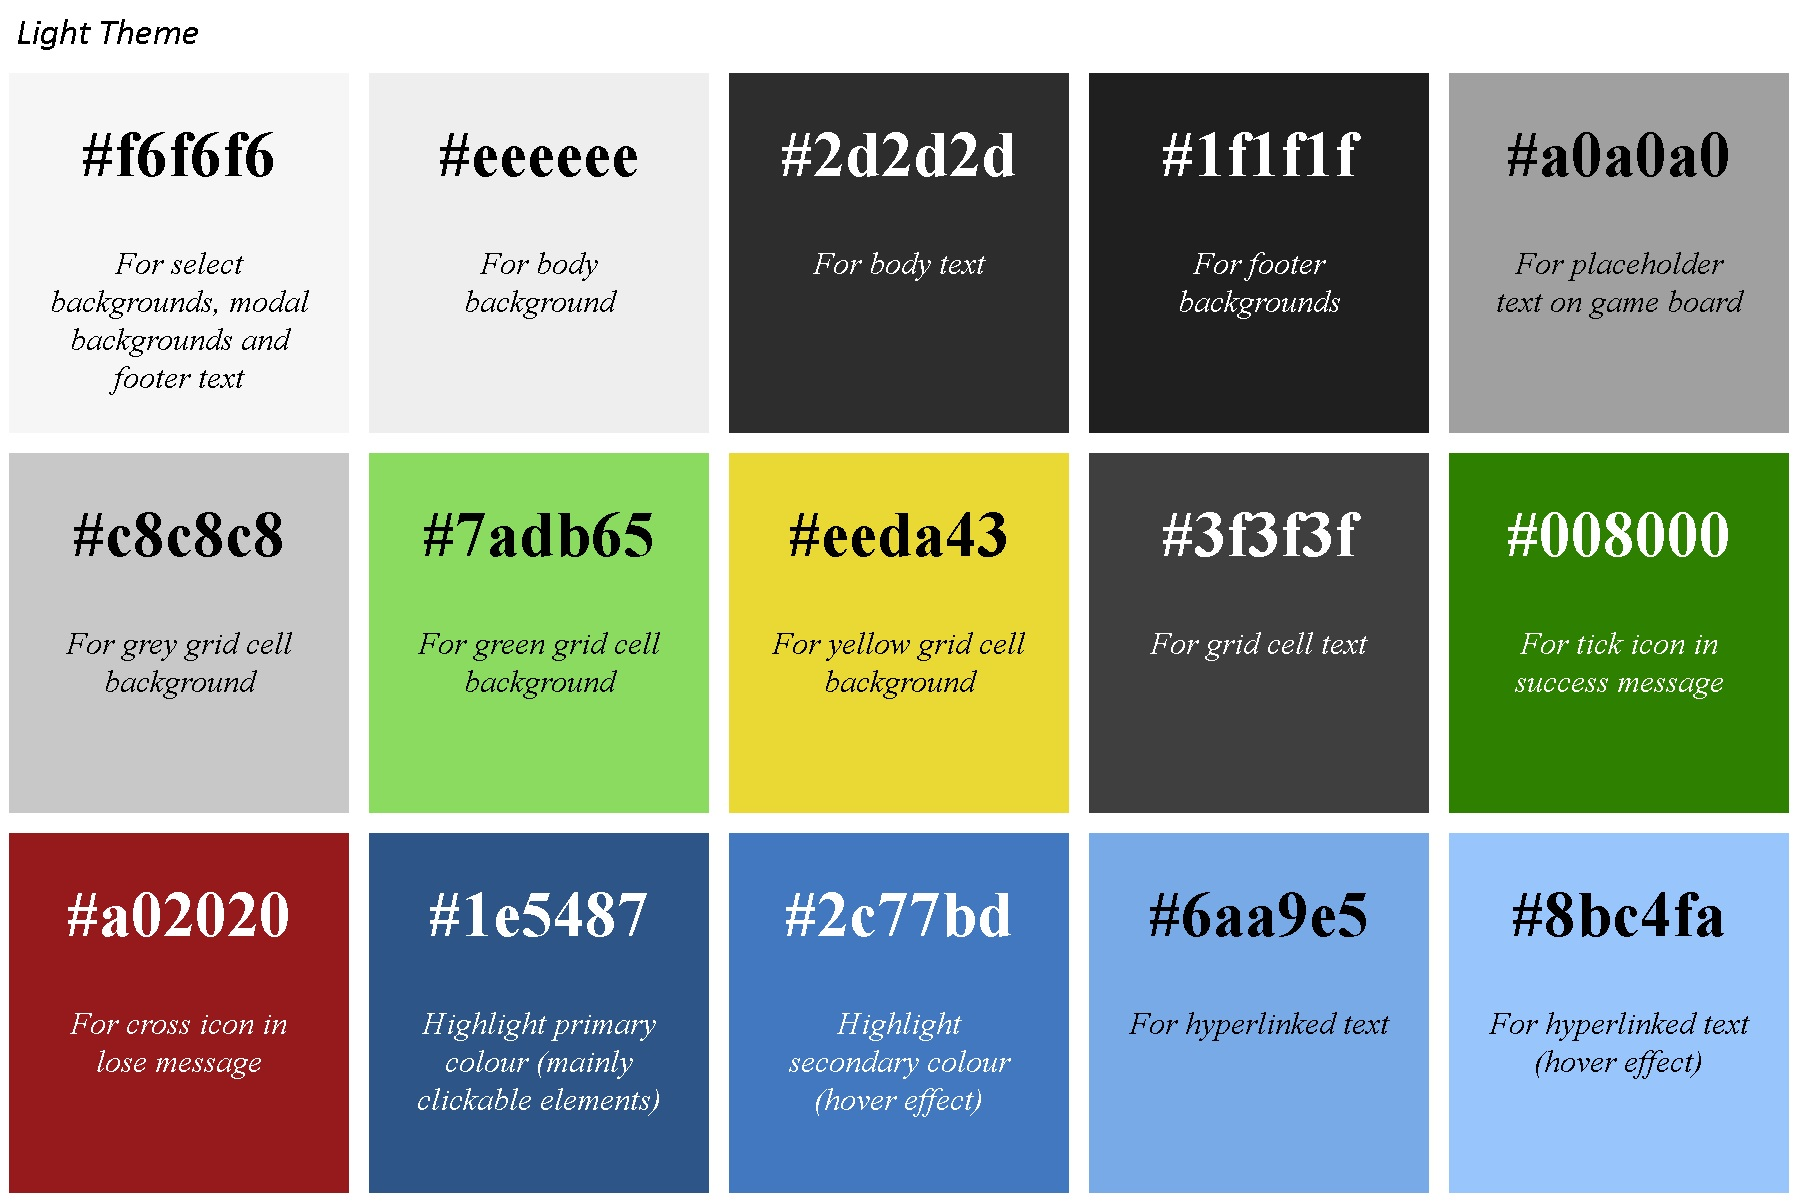
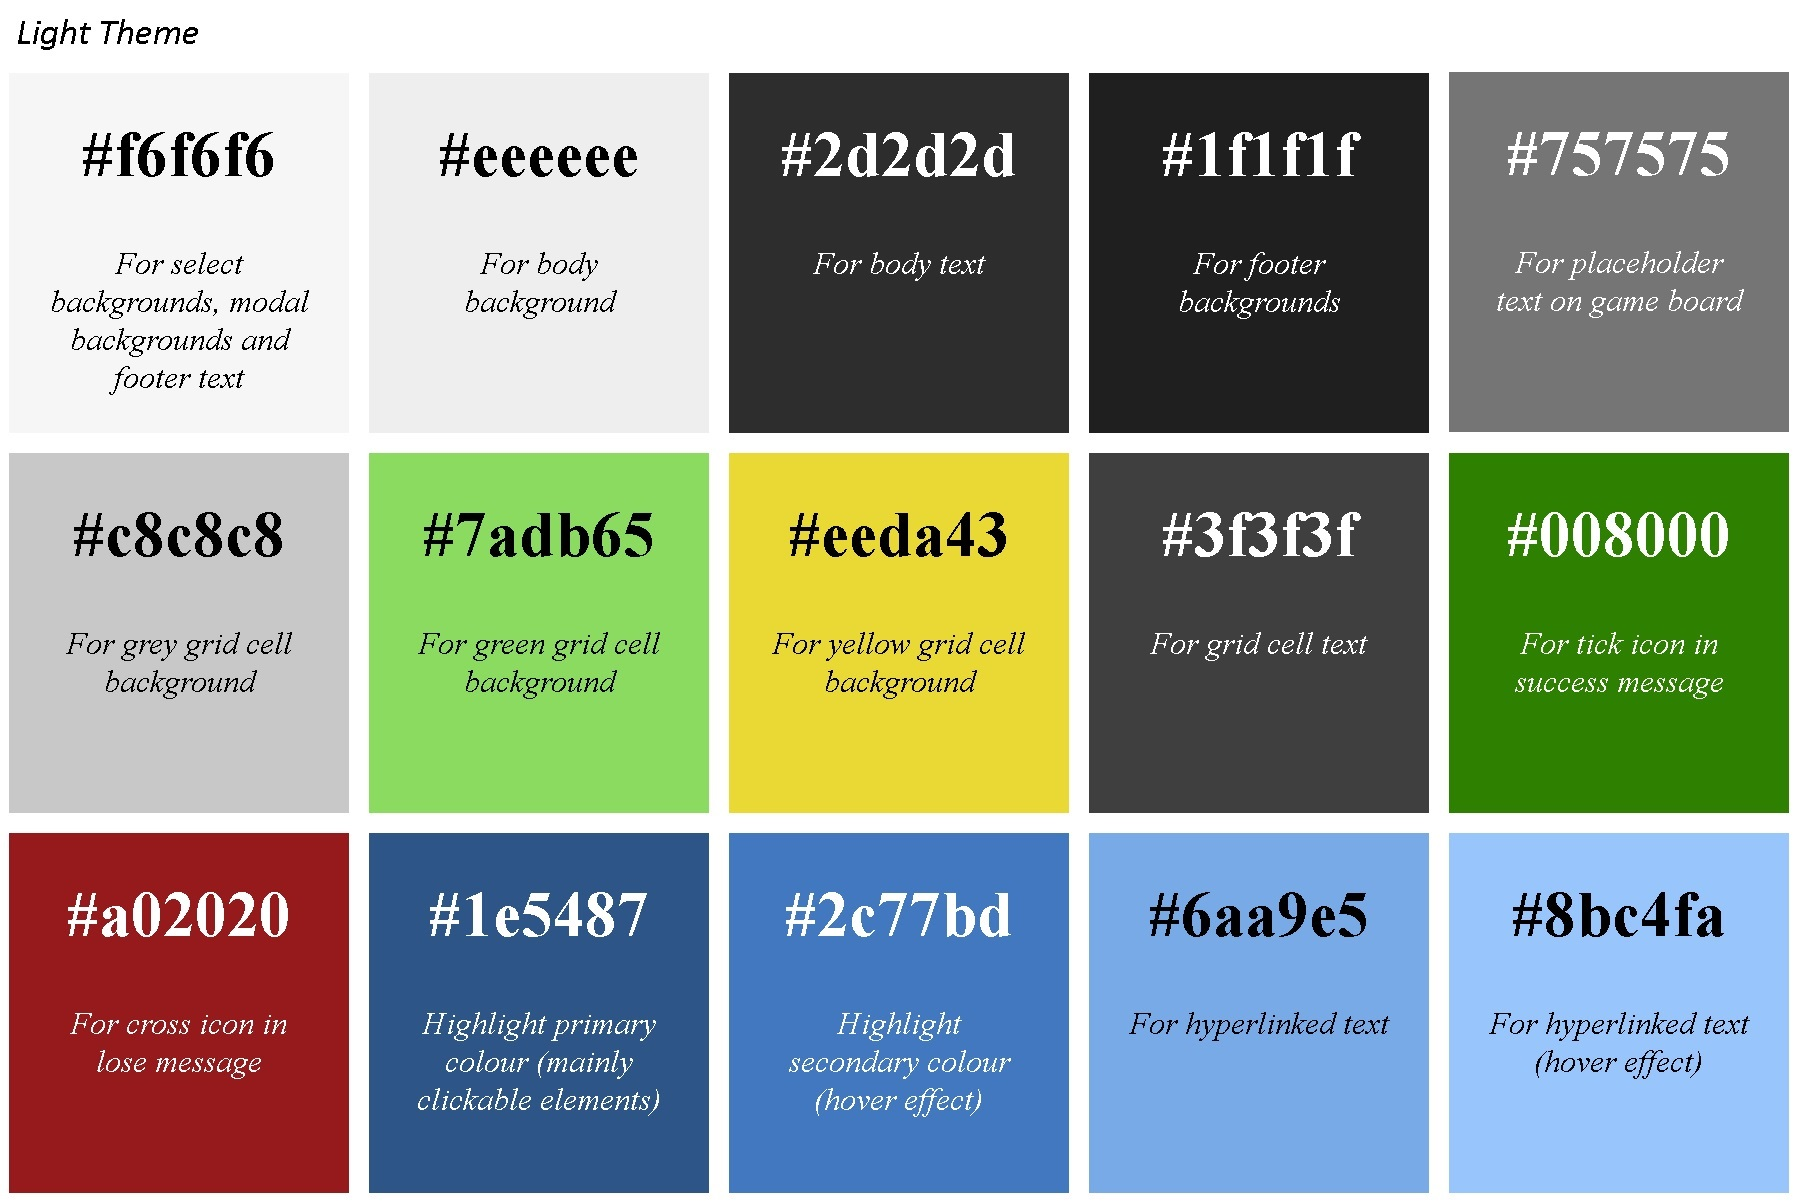
Update colour of game-board placeholder text for better colour contrast

Changed region(s): [[0.7773, 0.0615, 0.995, 0.3691]]

diff --git a/assets/css/style.css b/assets/css/style.css
@@ -10,7 +10,7 @@
     --body-text: #2d2d2d;
     --footer-bg: #1f1f1f;
     --footer-text: #f6f6f6;
-    --game-board-text: #a0a0a0;
+    --game-board-text: #757575;
     --grid-cell-grey: #c8c8c8;
     --grid-cell-green: #7adb65;
     --grid-cell-yellow: #eeda43;
@@ -37,6 +37,7 @@
     --body-text: #dbdbdb;
     --footer-bg: #3f3f3f;
     --footer-text: #f6f6f6;
+    --game-board-text: #a0a0a0;
     --grid-cell-grey: #3a3a3c;
     --grid-cell-green: #528d4d;
     --grid-cell-yellow: #b59e3a;
